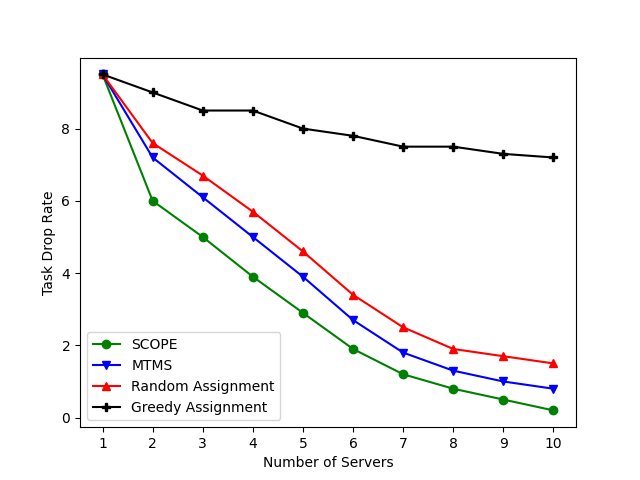
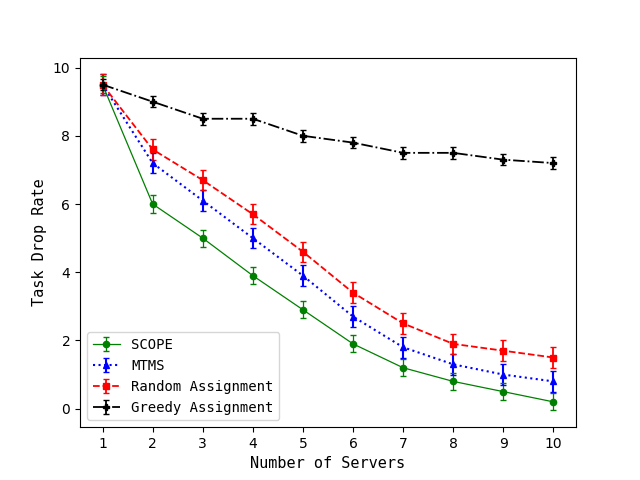
confidence interval added in all graphs

diff --git a/dummygraph.py b/dummygraph.py
@@ -28,113 +28,96 @@ def clearDataSet():
 
 
 def subtaskVsLatency():
-    x1 = []
-    y1 = []
-    y2 = []
-    y3 = []
-    y4 = []
+    prepareDataSet('Data/subtasklatency.txt')
 
-    for line in open('Data/subtasklatency.txt', 'r'):
-        lines = [i for i in line.split()]
-        x1.append(lines[0])
-        y1.append(float(lines[1]))
-        y2.append(float(lines[2]))
-        y3.append(float(lines[3]))
-        y4.append(float(lines[4]))
+    plt.xlabel('Number of subtasks', fontsize=11, fontname='monospace')
+    plt.ylabel('Service Latency', fontsize=11, fontname='monospace')
 
-    plt.xlabel('Number of subtasks')
-    plt.ylabel('Service Latency')
+    plt.errorbar(x1, y4, color='g', label='SCOPE', yerr=0.10, marker='o', capsize=2, linestyle='solid', linewidth=0.9,
+                 markersize=4.5, fillstyle='full')
+    plt.errorbar(x1, y1, color='b', label='MTMS', yerr=0.11, marker='^', capsize=2, linestyle='dotted', linewidth=2.0,
+                 markersize=4.2, fillstyle='full')
+    plt.errorbar(x1, y2, color='r', label='Random Assignment', yerr=0.10, marker='s', capsize=2, linestyle='dashed',
+                 linewidth=1.3, markersize=4.0, fillstyle='full')
+    plt.errorbar(x1, y3, color='k', label='Greedy Assignment', yerr=0.09, marker='P', capsize=2, linestyle='dashdot',
+                 linewidth=1.3, markersize=4.7, fillstyle='full')
 
-    plt.plot(x1, y4, marker='o', c='g', label='SCOPE')
-    plt.plot(x1, y1, marker='v', c='b', label='MTMS')
-    plt.plot(x1, y2, marker='^', c='r', label='Random Assignment')
-    plt.plot(x1, y3, marker='P', c='k', label='Greedy Assignment')
+    font = font_manager.FontProperties(family='monospace', weight='regular', style='normal', size=10)
+    plt.legend(prop=font)
 
-    plt.legend()
-    plt.savefig("Images/subtasklatency.png")
+    plt.savefig("Images/subtaskvslatency.png")
     plt.show()
+    clearDataSet()
 
 
 def subtaskVsEnergy():
-    x1 = []
-    y1 = []
-    y2 = []
-    y3 = []
-    y4 = []
-    for line in open('Data/subtaskenergy.txt', 'r'):
-        lines = [i for i in line.split()]
-        x1.append(lines[0])
-        y1.append(float(lines[1]))
-        y2.append(float(lines[2]))
-        y3.append(float(lines[3]))
-        y4.append(float(lines[4]))
+    prepareDataSet('Data/subtaskenergy.txt')
 
-    plt.xlabel('Number of subtasks')
-    plt.ylabel('Energy Consumption')
+    plt.xlabel('Number of subtasks', fontsize=11, fontname='monospace')
+    plt.ylabel('Energy Consumption', fontsize=11, fontname='monospace')
 
-    plt.plot(x1, y4, marker='o', c='g', label='SCOPE')
-    plt.plot(x1, y1, marker='v', c='b', label='MTMS')
-    plt.plot(x1, y2, marker='^', c='r', label='Random Assignment')
-    plt.plot(x1, y3, marker='P', c='k', label='Greedy Assignment')
+    plt.errorbar(x1, y4, color='g', label='SCOPE', yerr=0.010, marker='o', capsize=2, linestyle='solid', linewidth=0.9,
+                 markersize=4.5, fillstyle='full')
+    plt.errorbar(x1, y1, color='b', label='MTMS', yerr=0.010, marker='^', capsize=2, linestyle='dotted', linewidth=1.5,
+                 markersize=4.7, fillstyle='full')
+    plt.errorbar(x1, y2, color='r', label='Random Assignment', yerr=0.008, marker='s', capsize=2, linestyle='dashed',
+                 linewidth=1.3, markersize=4.7, fillstyle='full')
+    plt.errorbar(x1, y3, color='k', label='Greedy Assignment', yerr=0.007, marker='P', capsize=2, linestyle='dashdot',
+                 linewidth=1.3, markersize=4.7, fillstyle='full')
 
-    plt.legend()
-    plt.savefig("Images/subtaskenergy.png")
+    font = font_manager.FontProperties(family='monospace', weight='regular', style='normal', size=10)
+    plt.legend(prop=font)
+
+    plt.savefig("Images/subtaskvsenergy.png")
     plt.show()
+    clearDataSet()
 
 
 def subtaskVsTaskDrop():
-    x1 = []
-    y1 = []
-    y2 = []
-    y3 = []
-    y4 = []
-    for line in open('Data/subtaskvstaskdrop.txt', 'r'):
-        lines = [i for i in line.split()]
-        x1.append(lines[0])
-        y1.append(float(lines[1]))
-        y2.append(float(lines[2]))
-        y3.append(float(lines[3]))
-        y4.append(float(lines[4]))
+    prepareDataSet('Data/subtaskvstaskdrop.txt')
 
-    plt.xlabel('Number of subtasks')
-    plt.ylabel('Task Drop Rate')
+    plt.xlabel('Number of subtasks', fontsize=11, fontname='monospace')
+    plt.ylabel('Task Drop Rate', fontsize=11, fontname='monospace')
 
-    plt.plot(x1, y4, marker='o', c='g', label='SCOPE')
-    plt.plot(x1, y1, marker='v', c='b', label='MTMS')
-    plt.plot(x1, y2, marker='^', c='r', label='Random Assignment')
-    plt.plot(x1, y3, marker='P', c='k', label='Greedy Assignment')
+    plt.errorbar(x1, y4, color='g', label='SCOPE', yerr=0.22, marker='o', capsize=2, linestyle='solid', linewidth=0.9,
+                 markersize=4.5, fillstyle='full')
+    plt.errorbar(x1, y1, color='b', label='MTMS', yerr=0.25, marker='^', capsize=2, linestyle='dotted', linewidth=1.5,
+                 markersize=4.7, fillstyle='full')
+    plt.errorbar(x1, y2, color='r', label='Random Assignment', yerr=0.25, marker='s', capsize=2, linestyle='dashed',
+                 linewidth=1.3, markersize=4.7, fillstyle='full')
+    plt.errorbar(x1, y3, color='k', label='Greedy Assignment', yerr=0.15, marker='P', capsize=2, linestyle='dashdot',
+                 linewidth=1.3, markersize=4.8, fillstyle='full')
 
-    plt.legend()
+    font = font_manager.FontProperties(family='monospace', weight='regular', style='normal', size=10)
+    plt.legend(prop=font)
+
     plt.savefig("Images/subtaskvstaskdrop.png")
     plt.show()
+    clearDataSet()
 
 
 def subtaskVsUtilCost():
-    x1 = []
-    y1 = []
-    y2 = []
-    y3 = []
-    y4 = []
-    for line in open('Data/subtaskutilitypercost.txt', 'r'):
-        lines = [i for i in line.split()]
-        x1.append(lines[0])
-        y1.append(float(lines[1]))
-        y2.append(float(lines[2]))
-        y3.append(float(lines[3]))
-        y4.append(float(lines[4]))
+    prepareDataSet('Data/subtaskutilitypercost.txt')
 
     # plt.title("Number of subtasks vs Utility per Unit Cost")
-    plt.xlabel('Number of subtasks')
-    plt.ylabel('Utility per Unit Cost')
+    plt.xlabel('Number of subtasks', fontsize=11, fontname='monospace')
+    plt.ylabel('Utility per Unit Cost', fontsize=11, fontname='monospace')
 
-    plt.plot(x1, y4, marker='o', c='g', label='SCOPE')
-    plt.plot(x1, y1, marker='v', c='b', label='MTMS')
-    plt.plot(x1, y2, marker='^', c='r', label='Random Assignment')
-    plt.plot(x1, y3, marker='P', c='k', label='Greedy Assignment')
+    plt.errorbar(x1, y4, color='g', label='SCOPE', yerr=0.016, marker='o', capsize=2, linestyle='solid', linewidth=0.9,
+                 markersize=4.5, fillstyle='full')
+    plt.errorbar(x1, y1, color='b', label='MTMS', yerr=0.015, marker='^', capsize=2, linestyle='dotted', linewidth=1.5,
+                 markersize=4.7, fillstyle='full')
+    plt.errorbar(x1, y2, color='r', label='Random Assignment', yerr=0.014, marker='s', capsize=2, linestyle='dashed',
+                 linewidth=1.3, markersize=4.7, fillstyle='full')
+    plt.errorbar(x1, y3, color='k', label='Greedy Assignment', yerr=0.013, marker='P', capsize=2, linestyle='dashdot',
+                 linewidth=1.3, markersize=4.7, fillstyle='full')
 
-    plt.legend()
-    plt.savefig("Images/subtaskutilitypercost.png")
+    font = font_manager.FontProperties(family='monospace', weight='regular', style='normal', size=10)
+    plt.legend(prop=font)
+
+    plt.savefig("Images/subtaskvsutilitypercost.png")
     plt.show()
+    clearDataSet()
 
 
 def serverVsLatency():
@@ -186,15 +169,21 @@ def serverVsEnergy():
 def serverVsUtilityPerUnitCost():
     prepareDataSet('Data/serverutilitypercost.txt')
 
-    plt.xlabel('Number of Servers')
-    plt.ylabel('Utility per Unit Cost')
+    plt.xlabel('Number of Servers', fontsize=11, fontname='monospace')
+    plt.ylabel('Utility per Unit Cost', fontsize=11, fontname='monospace')
 
-    plt.plot(x1, y4, marker='o', c='g', label='SCOPE')
-    plt.plot(x1, y1, marker='v', c='b', label='MTMS')
-    plt.plot(x1, y2, marker='^', c='r', label='Random Assignment')
-    plt.plot(x1, y3, marker='P', c='k', label='Greedy Assignment')
+    plt.errorbar(x1, y4, color='g', label='SCOPE', yerr=0.022, marker='o', capsize=2, linestyle='solid', linewidth=0.9,
+                 markersize=4.5, fillstyle='full')
+    plt.errorbar(x1, y1, color='b', label='MTMS', yerr=0.025, marker='^', capsize=2, linestyle='dotted', linewidth=1.5,
+                 markersize=4.1, fillstyle='full')
+    plt.errorbar(x1, y2, color='r', label='Random Assignment', yerr=0.026, marker='s', capsize=2, linestyle='dashed',
+                 linewidth=1.3, markersize=3.8, fillstyle='full')
+    plt.errorbar(x1, y3, color='k', label='Greedy Assignment', yerr=0.017, marker='P', capsize=2, linestyle='dashdot',
+                 linewidth=1.3, markersize=4.5, fillstyle='full')
 
-    plt.legend()
+    font = font_manager.FontProperties(family='monospace', weight='regular', style='normal', size=10)
+    plt.legend(prop=font)
+
     plt.savefig("Images/servervsutilcost")
     plt.show()
     clearDataSet()
@@ -203,15 +192,21 @@ def serverVsUtilityPerUnitCost():
 def serverVsTaskDrop():
     prepareDataSet('Data/servervstaskdrop.txt')
 
-    plt.xlabel('Number of Servers')
-    plt.ylabel('Task Drop Rate')
+    plt.xlabel('Number of Servers', fontsize=11, fontname='monospace')
+    plt.ylabel('Task Drop Rate', fontsize=11, fontname='monospace')
 
-    plt.plot(x1, y4, marker='o', c='g', label='SCOPE')
-    plt.plot(x1, y1, marker='v', c='b', label='MTMS')
-    plt.plot(x1, y2, marker='^', c='r', label='Random Assignment')
-    plt.plot(x1, y3, marker='P', c='k', label='Greedy Assignment')
+    plt.errorbar(x1, y4, color='g', label='SCOPE', yerr=0.25, marker='o', capsize=2, linestyle='solid', linewidth=0.9,
+                 markersize=4.5, fillstyle='full')
+    plt.errorbar(x1, y1, color='b', label='MTMS', yerr=0.3, marker='^', capsize=2, linestyle='dotted', linewidth=1.5,
+                 markersize=4.7, fillstyle='full')
+    plt.errorbar(x1, y2, color='r', label='Random Assignment', yerr=0.3, marker='s', capsize=2, linestyle='dashed',
+                 linewidth=1.3, markersize=4.8, fillstyle='full')
+    plt.errorbar(x1, y3, color='k', label='Greedy Assignment', yerr=0.17, marker='P', capsize=2, linestyle='dashdot',
+                 linewidth=1.3, markersize=4.8, fillstyle='full')
 
-    plt.legend()
+    font = font_manager.FontProperties(family='monospace', weight='regular', style='normal', size=10)
+    plt.legend(prop=font)
+
     plt.savefig("Images/servervstaskdrop.png")
     plt.show()
     clearDataSet()
@@ -251,12 +246,18 @@ def taskSizeVsLatency():
     plt.xlabel('Task Size', fontsize=11, fontname='monospace')
     plt.ylabel('Service Latency', fontsize=11, fontname='monospace')
 
-    plt.errorbar(x1, y4, color='g', label='SCOPE', yerr=0.18, marker='o', capsize=2, linestyle='solid', linewidth=0.9, markersize=4.5)
-    plt.errorbar(x1, y1, color='b', label='MTMS', yerr=0.21, marker='^', capsize=2, linestyle='dotted', linewidth=1.5, markersize=4.7)
-    plt.errorbar(x1, y2, color='r', label='Random Assignment', yerr=0.22, marker='s', capsize=2, linestyle='dashed', linewidth=1.3, markersize=4.7)
-    plt.errorbar(x1, y3, color='k', label='Greedy Assignment', yerr=0.16, marker='P', capsize=2, linestyle='dashdot', linewidth=1.3, markersize=4.7)
+    plt.errorbar(x1, y4, color='g', label='SCOPE', yerr=0.18, marker='o', capsize=2, linestyle='solid', linewidth=0.9,
+                 markersize=4.5, fillstyle='full')
+    plt.errorbar(x1, y1, color='b', label='MTMS', yerr=0.21, marker='^', capsize=2, linestyle='dotted', linewidth=1.5,
+                 markersize=4.7, fillstyle='full')
+    plt.errorbar(x1, y2, color='r', label='Random Assignment', yerr=0.22, marker='s', capsize=2, linestyle='dashed',
+                 linewidth=1.3, markersize=4.7, fillstyle='full')
+    plt.errorbar(x1, y3, color='k', label='Greedy Assignment', yerr=0.16, marker='P', capsize=2, linestyle='dashdot',
+                 linewidth=1.3, markersize=4.7, fillstyle='full')
+
     font = font_manager.FontProperties(family='monospace', weight='regular', style='normal', size=10)
     plt.legend(prop=font)
+
     plt.savefig("Images/tasksizevslatency.png")
     plt.show()
     clearDataSet()
@@ -279,6 +280,7 @@ def taskSizeVsEnergy():
 
     font = font_manager.FontProperties(family='monospace', weight='regular', style='normal', size=10)
     plt.legend(prop=font)
+
     plt.savefig("Images/tasksizevsenergy.png")
     plt.show()
     clearDataSet()
@@ -301,6 +303,7 @@ def taskSizeVsUtilityPerUnitCost():
 
     font = font_manager.FontProperties(family='monospace', weight='regular', style='normal', size=10)
     plt.legend(prop=font)
+
     plt.savefig("Images/tasksizevsutilitypercost.png")
     plt.show()
     clearDataSet()
@@ -323,6 +326,7 @@ def taskSizeVsTaskDrop():
 
     font = font_manager.FontProperties(family='monospace', weight='regular', style='normal', size=10)
     plt.legend(prop=font)
+
     plt.savefig("Images/tasksizevstaskdrop.png")
     plt.show()
     clearDataSet()
@@ -332,13 +336,13 @@ def taskSizeVsTaskDropBar():
     prepareDataSet('Data/tasksizevstaskdrop.txt')
 
     x = np.arange(len(x1))  # the label locations
-    width = 0.24  # the width of the bars
+    # width = 0.24  # the width of the bars
 
     fig, ax = plt.subplots()
-    rects1 = ax.bar(x - width, y4, width/2, color='g', label='SCO')
-    rects2 = ax.bar(x - width / 2, y1, width/2, color='navy', label='MTMS')
-    rects3 = ax.bar(x, y2, width/2, color='r', label='Random Assignment')
-    rects4 = ax.bar(x + width/2, y3, width/2, color='k', label='Greedy Assignment')
+    # rects1 = ax.bar(x - width, y4, width/2, color='g', label='SCO')
+    # rects2 = ax.bar(x - width / 2, y1, width/2, color='navy', label='MTMS')
+    # rects3 = ax.bar(x, y2, width/2, color='r', label='Random Assignment')
+    # rects4 = ax.bar(x + width/2, y3, width/2, color='k', label='Greedy Assignment')
 
     ax.set_ylabel('Task Drop Rate')
     plt.xlabel("Task Size")
@@ -362,7 +366,7 @@ def taskSizeVsTaskDropBar():
 # subtaskVsTaskDrop()
 
 # serverVsLatency()
-serverVsEnergy()
+# serverVsEnergy()
 # serverVsUtilityPerUnitCost()
 # serverVsTaskDrop()
 # serverVsTaskDropBar()
